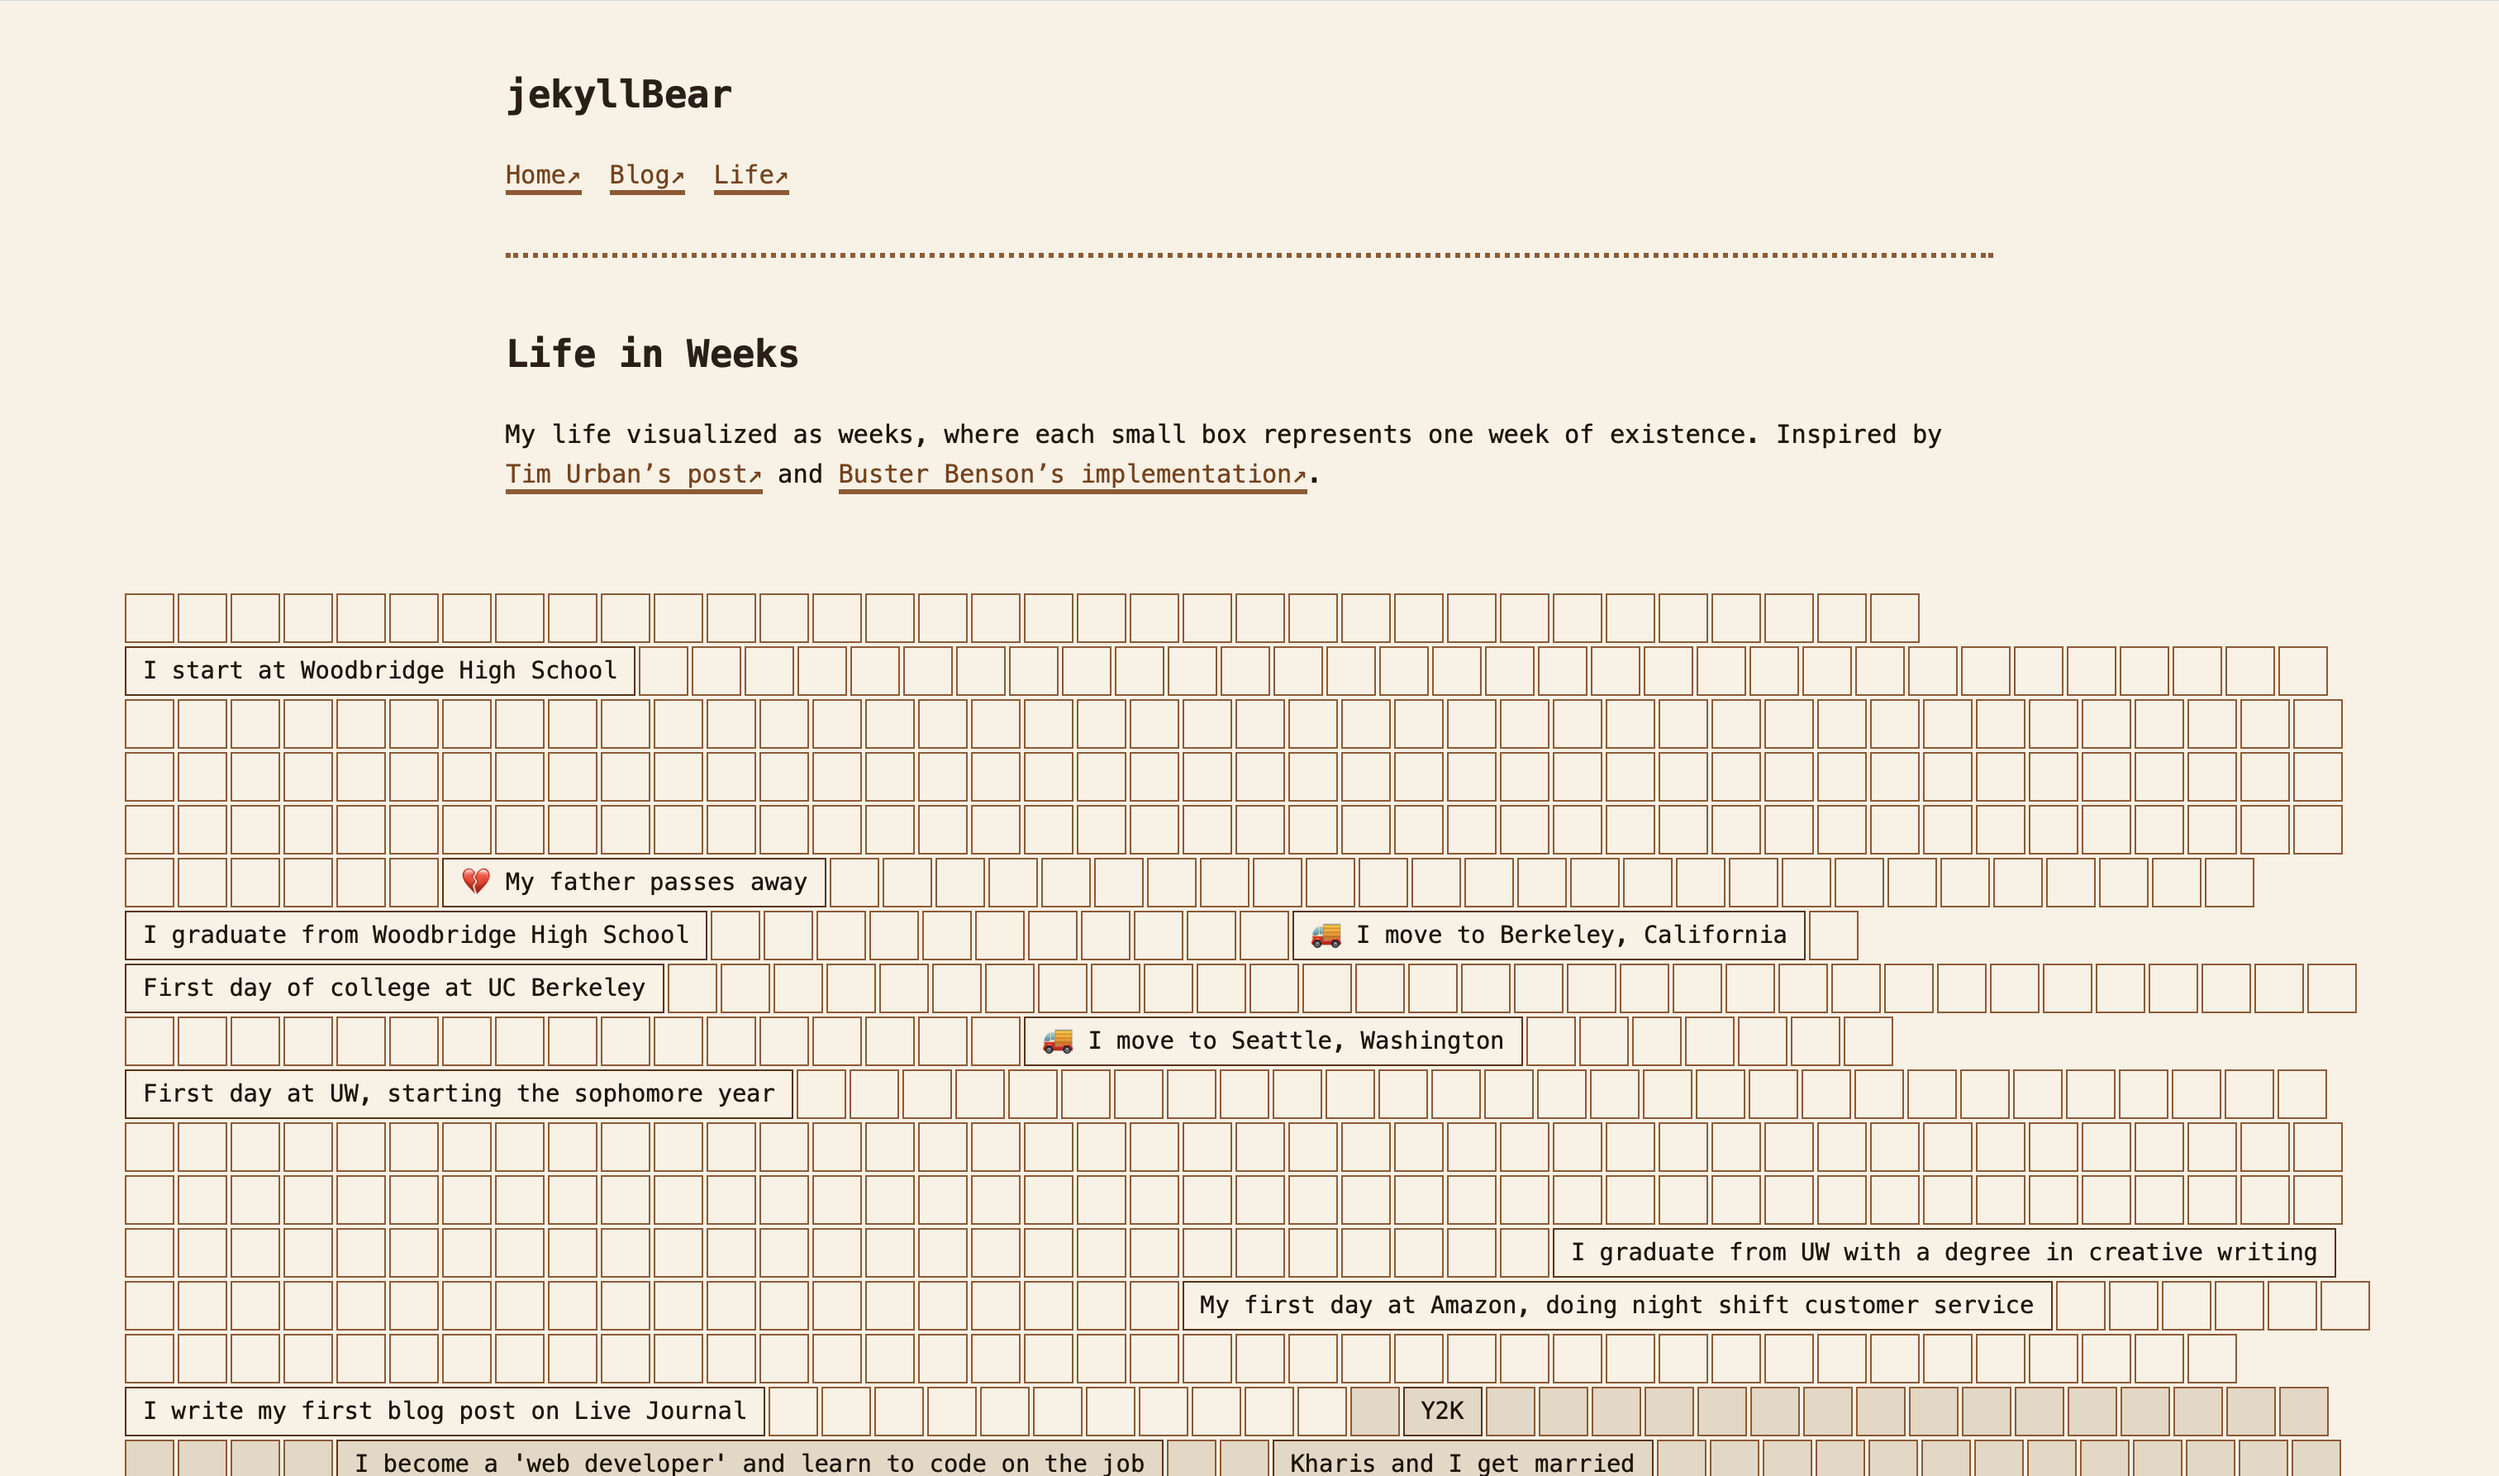
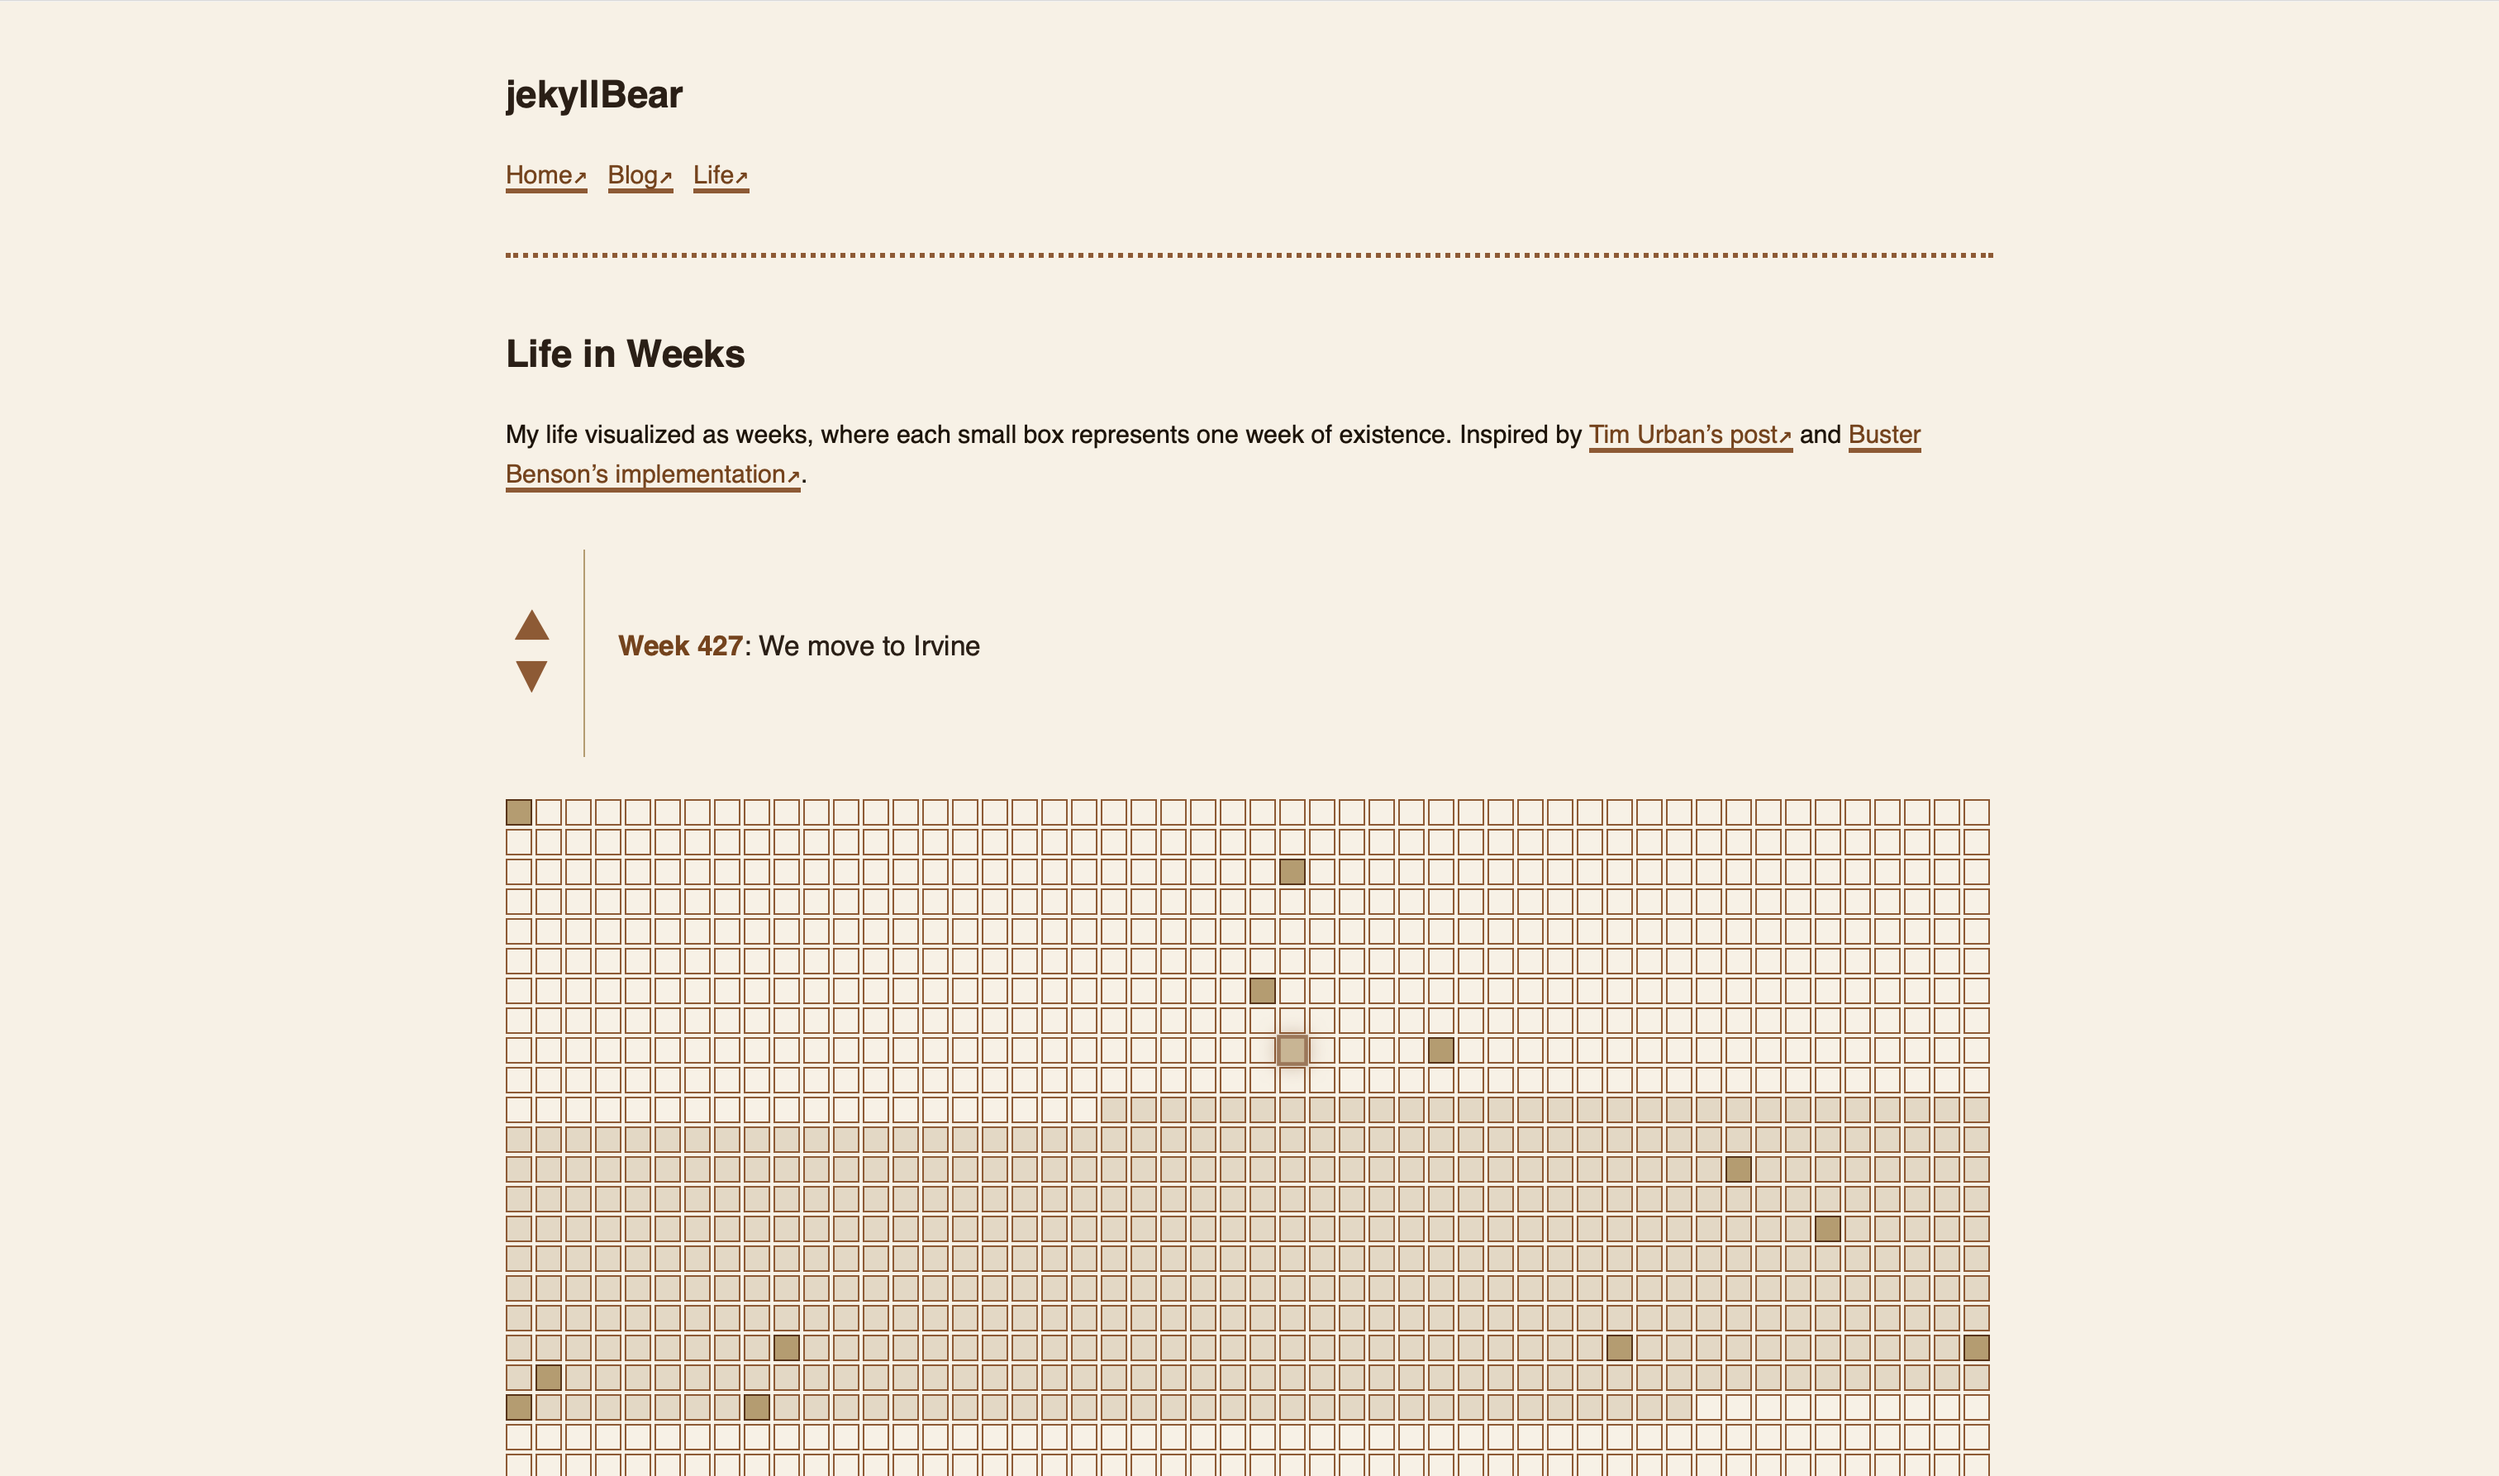
feat: cleaner, leaner, life in weeks

diff --git a/assets/life-carousel.js b/assets/life-carousel.js
@@ -1,0 +1,93 @@
+// Carousel logic for life-in-weeks blockquote
+(function() {
+  let currentIndex = 0;
+
+  // Parse events from embedded JSON
+  function loadEventsFromJson() {
+    var jsonTag = document.getElementById('life-in-weeks-events-json');
+    if (jsonTag) {
+      try {
+        var jsonStr = jsonTag.textContent.trim();
+        window.lifeInWeeksEvents = JSON.parse(jsonStr);
+      } catch (e) {
+        window.lifeInWeeksEvents = [];
+      }
+    }
+  }
+
+  function getWeekNumberSinceBirth(eventDateStr) {
+    // Get start_date from a data attribute on the container
+    const container = document.getElementById('life-carousel-container');
+    const startDateStr = container ? container.getAttribute('data-start-date') : null;
+    if (!startDateStr) return '?';
+    const start = new Date(startDateStr);
+    const eventDate = new Date(eventDateStr);
+    if (isNaN(start) || isNaN(eventDate)) return '?';
+    const diffMs = eventDate - start;
+    const weekNum = Math.floor(diffMs / (1000 * 60 * 60 * 24 * 7)) + 1;
+    return weekNum;
+  }
+
+  function updateCarousel() {
+    const events = window.lifeInWeeksEvents || [];
+    const quote = document.getElementById('life-carousel-quote');
+    const meta = document.getElementById('life-carousel-meta');
+    // Remove pulse from all weeks
+    document.querySelectorAll('.week.carousel-pulse').forEach(el => {
+      el.classList.remove('carousel-pulse');
+    });
+    if (!events.length) {
+      quote.textContent = 'No events to display.';
+      meta.textContent = '';
+      return;
+    }
+    if (currentIndex >= events.length) currentIndex = 0;
+    if (currentIndex < 0) currentIndex = events.length - 1;
+    const event = events[currentIndex];
+    const weekNum = getWeekNumberSinceBirth(event.date);
+    // Highlight the corresponding week in the grid
+    const weekDiv = document.querySelector('.week[data-week-number="' + (weekNum - 1) + '"]');
+    if (weekDiv) {
+      weekDiv.classList.add('carousel-pulse');
+    }
+    let main = '';
+    if (event.name && event.desc) {
+      main = `<span class="carousel-weeknum">Week ${weekNum}</span>: ${event.name}`;
+      quote.innerHTML = main;
+      meta.textContent = event.desc;
+    } else if (event.name) {
+      main = `<span class="carousel-weeknum">Week ${weekNum}</span>: ${event.name}`;
+      quote.innerHTML = main;
+      meta.textContent = '';
+    } else if (event.desc) {
+      main = `<span class="carousel-weeknum">Week ${weekNum}</span>`;
+      quote.innerHTML = main;
+      meta.textContent = event.desc;
+    } else {
+      quote.innerHTML = `<span class="carousel-weeknum">Week ${weekNum}</span>`;
+      meta.textContent = '';
+    }
+  }
+  window.updateLifeCarousel = updateCarousel;
+
+  function setupCarousel() {
+    loadEventsFromJson();
+    document.getElementById('life-carousel-up').addEventListener('click', function() {
+      const events = window.lifeInWeeksEvents || [];
+      currentIndex = (currentIndex - 1 + events.length) % events.length;
+      updateCarousel();
+    });
+    document.getElementById('life-carousel-down').addEventListener('click', function() {
+      const events = window.lifeInWeeksEvents || [];
+      currentIndex = (currentIndex + 1) % events.length;
+      updateCarousel();
+    });
+    updateCarousel();
+  }
+
+  if (document.readyState === 'loading') {
+    document.addEventListener('DOMContentLoaded', setupCarousel);
+  } else {
+    setupCarousel();
+  }
+})();

diff --git a/_layouts/life-in-weeks.html b/_layouts/life-in-weeks.html
@@ -20,7 +20,34 @@ layout: compress
         {% assign start_day = split_start[2] %}
         {% assign end_year = page.end_year | plus: 0 %}
         
-        <div class="weeks-grid">
+        <!-- Carousel Blockquote Section -->
+        <div id="life-carousel-container" style="display: flex; align-items: center; margin: 2.2em 0 1.7em 0;" data-start-date="{{ page.start_date }}">
+          <div style="display: flex; flex-direction: column; align-items: center; margin-right: 1em;">
+            <button id="life-carousel-up" aria-label="Previous event" style="background: none; border: none; cursor: pointer; font-size: 1.5em; line-height: 1; padding: 0.2em;">
+              <span aria-hidden="true">&#9650;</span>
+            </button>
+            <button id="life-carousel-down" aria-label="Next event" style="background: none; border: none; cursor: pointer; font-size: 1.5em; line-height: 1; padding: 0.2em;">
+              <span aria-hidden="true">&#9660;</span>
+            </button>
+          </div>
+          <blockquote style="flex: 1; margin: 0; font-size: 1.1em; height: 7.5em; max-width: 100%; display: flex; flex-direction: column; justify-content: center; align-items: flex-start; line-height: 1.5; overflow: hidden; font-style: normal;">
+            <span id="life-carousel-quote"></span>
+            <span id="life-carousel-meta" style="font-size: 0.95em; color: var(--main-color); margin-top: 0.5em;"></span>
+          </blockquote>
+        </div>
+        {% capture events_json %}[
+        {% assign first = true %}
+        {% for event_date in data %}
+          {% assign date = event_date[0] %}
+          {% for event in event_date[1] %}
+            {% unless first %},{% endunless %}{"name":{{ event.name | jsonify }},"desc":{{ event.desc | jsonify }},"date":{{ date | jsonify }}}
+            {% assign first = false %}
+          {% endfor %}
+        {% endfor %}
+        ]{% endcapture %}
+        <script id="life-in-weeks-events-json" type="application/json">{{ events_json | strip }}</script>
+        <script src="{{ "/assets/life-carousel.js" | relative_url }}"></script>
+        <div class="weeks-grid" style="margin-top: 1.7em;">
             {% assign total_years = end_year | minus: start_year | plus: 1 %}
             {% assign total_weeks = total_years | times: 52 %}
             {% if total_weeks > 0 %}
@@ -67,9 +94,9 @@ layout: compress
                         {% assign is_current = true %}
                     {% endif %}
                     {% assign decade_mod = decade | modulo: 2 %}
-                    <div class="week decade-{{ decade_mod }}{% if week_has_events %} has-events{% endif %}{% if is_future %} future{% endif %}{% if is_current %} current{% endif %}" 
-                         {% if week_has_events %}data-event="{{ week_tooltip | strip }}"{% endif %}>
-                        {% if week_has_events %}{{ week_events | strip }}{% endif %}
+                    <div class="week decade-{{ decade_mod }}{% if week_has_events %} has-events{% endif %}{% if is_future %} future{% endif %}{% if is_current %} current{% endif %}"
+                         data-week-number="{{ week_index }}">
+                        <!-- No event text, just highlight -->
                     </div>
                     {% assign week_index = week_index | plus: 1 %}
                 {% endfor %}

diff --git a/assets/style.css b/assets/style.css
@@ -1,7 +1,64 @@
+/* Highlighted week number in carousel quote */
+.carousel-weeknum {
+  color: var(--link-color);
+  font-weight: bold;
+  font-style: normal;
+}
+/* Pulse effect for carousel-selected week */
+.carousel-pulse {
+  animation: carousel-pulse 1.2s cubic-bezier(0.4,0,0.6,1) infinite;
+  border-width: 2px !important;
+  border-color: var(--link-color) !important;
+  box-shadow: 0 0 10px rgba(124, 64, 17, 0.5);
+  z-index: 2;
+}
+
+@keyframes carousel-pulse {
+  0% {
+    transform: scale(1);
+    opacity: 1;
+  }
+  50% {
+    transform: scale(1.18);
+    opacity: 0.7;
+  }
+  100% {
+    transform: scale(1);
+    opacity: 1;
+  }
+}
+/* Carousel arrow button styles */
+#life-carousel-up, #life-carousel-down {
+  background: none;
+  border: none;
+  cursor: pointer;
+  font-size: 1.5em;
+  line-height: 1;
+  padding: 0.2em;
+  color: var(--main-color);
+  outline: none;
+  user-select: none;
+  -webkit-tap-highlight-color: transparent;
+  transition: color 0.2s;
+}
+#life-carousel-up:focus, #life-carousel-down:focus, #life-carousel-up:active, #life-carousel-down:active {
+  outline: none;
+  box-shadow: none;
+  background: none;
+  color: var(--main-color);
+}
+#life-carousel-up span, #life-carousel-down span {
+  color: inherit;
+}
 /* Tooltip for event squares */
+
 .week[data-event] {
   position: relative;
-  cursor: pointer;
+  cursor: default !important;
+}
+
+.week {
+  cursor: default !important;
 }
 
 /* Desktop: show tooltip on hover */
@@ -332,28 +389,11 @@ input[type=button], input[type=submit], input[type=reset] {
   align-items: flex-start;
 }
 
-/* Make weeks grid wider on larger screens while maintaining padding */
-@media (min-width: 1200px) {
-  .weeks-grid {
-    max-width: calc(100vw - 20vw);
-    width: calc(100vw - 20vw);
-    margin-left: calc((var(--width) - 100vw + 20vw) / 2);
-    margin-right: calc((var(--width) - 100vw + 20vw) / 2);
-  }
-}
-
-@media (min-width: 1400px) {
-  .weeks-grid {
-    max-width: calc(100vw - 20vw);
-    width: calc(100vw - 20vw);
-    margin-left: calc((var(--width) - 100vw + 20vw) / 2);
-    margin-right: calc((var(--width) - 100vw + 20vw) / 2);
-  }
-}
+/* Removed wide-screen overrides for .weeks-grid to always fit its container */
 
 .week {
-  min-width: 30px;
-  height: 30px;
+  width: 16px;
+  height: 16px;
   border: 1px solid var(--main-color);
   background-color: var(--background-color);
   display: inline-flex;
@@ -364,7 +404,7 @@ input[type=button], input[type=submit], input[type=reset] {
   font-family: var(--font-thin);
   font-size: var(--font-scale);
   line-height: 1.5;
-  padding: 4px 8px;
+  padding: 2px 2px;
   white-space: nowrap;
   box-sizing: border-box;
 }
@@ -391,11 +431,10 @@ input[type=button], input[type=submit], input[type=reset] {
 
 .week.has-events {
   border-color: var(--visited-color);
-  color: var(--text-color);
+  background-color: var(--blockquote-color);
+  color: inherit;
   font-size: var(--font-scale);
-  min-width: auto;
-  width: auto;
-  padding: 4px 10px;
+  padding: 0;
 }
 
 .week.has-events.future {

diff --git a/README.md b/README.md
@@ -122,6 +122,18 @@ Use them as templates for your front matter.
 >To test your theme, run `bundle exec jekyll serve` and open your browser at `http://localhost:4000`.
 
 
+## Recent Updates: Life in Weeks Interactive Carousel
+
+- The **Life in Weeks** page now features an interactive carousel blockquote above the grid, showing a key event from your life.
+- Up/down arrows let you cycle through events. The week number, event name, and description are shown, with the week number highlighted.
+- As you change the quote, the corresponding week in the grid pulses, visually connecting the event to its week.
+- The quote area has a fixed height and is vertically centered, so the grid never shifts as you browse events.
+- The grid is fully non-interactive (no tooltips, no pointer/question mark cursor), for a clean and minimal look.
+- The carousel arrows are styled to match the theme and do not show a highlight on click.
+- All code is lean and efficient: no extra network requests, no heavy JS, and all data is embedded at build time for instant loading.
+
+See `life.md`, `_layouts/life-in-weeks.html`, and `assets/life-carousel.js` for implementation details.
+
 ## Contributing
 
 Bug reports and pull requests are welcome on GitHub at https://github.com/knhash/jekyllBear. This project is intended to be a safe, welcoming space for collaboration, and contributors are expected to adhere to the [Contributor Covenant](http://contributor-covenant.org) code of conduct.

diff --git a/index.md b/index.md
@@ -22,3 +22,9 @@ This is a port of it's theme to Jekyll, with some tweaks. So you can use GitHub 
 - Code highlighting
 
 Have a look around, this website is already themed with **jekyllBear**. If you like it, head over to the GitHub [repository](https://github.com/knhash/jekyllBear) for installation instructions.
+
+#### New: Life in Weeks Interactive Timeline
+
+- Visualize your life weeks, inspired by [Wait But Why](https://waitbutwhy.com/2014/05/life-weeks.html) and [Buster Benson](https://busterbenson.com/life-in-weeks/) and cycle through key events with up/down arrows.
+
+Try it on the [Life in Weeks](/life) page!

diff --git a/life.md b/life.md
@@ -2,7 +2,7 @@
 title: Life in Weeks
 layout: life-in-weeks
 datafile: life-in-weeks
-start_date: 1990-01-01
+start_date: 1976-05-28
 end_year: 2075
 ---
 
